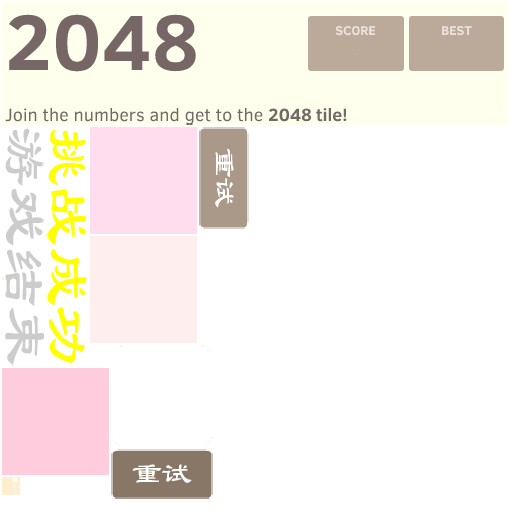
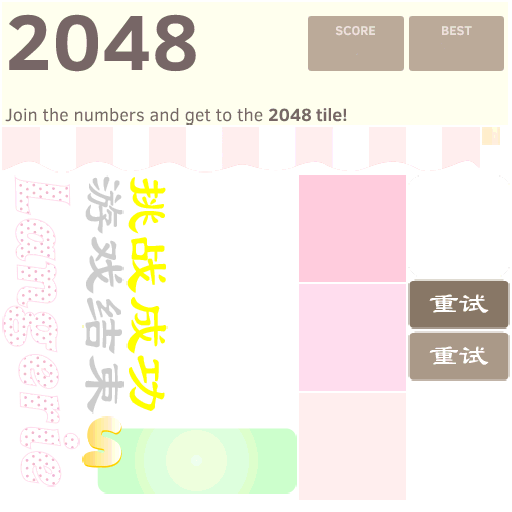
素材

diff --git a/langerieSweetGame/src/gamePlay/layer/GPBackgroundLayer.js b/langerieSweetGame/src/gamePlay/layer/GPBackgroundLayer.js
@@ -36,17 +36,33 @@ var GPBackgroundLayer = cc.LayerColor.extend({
             x:  GC.centerX,
             y:  GC.centerY
         });
-        this.addChild(bg);
         //GC.spriteTileRepeat(bg);
+        this.addChild(bg);
 
+        //top背景
+        var topbg=cc.Sprite.create("#top.png");
+        topbg.attr({
+            x:GC.centerX,
+            y:GC.h
+        });
+        topbg.setAnchorPoint(0.5,1);
+        this.addChild(topbg);
 
         //menu背景
-        menuBg = new cc.Sprite("#menu.png");
-        menuBg.attr({
+        //menuBg = new cc.Sprite("#menu.png");
+        //menuBg.attr({
+        //    x: GC.centerX,
+        //    y: GC.h-60.5
+        //});
+        //this.addChild(menuBg);
+
+        //scorebar
+        var scorebar = cc.Sprite.create("#scorebar.png");
+        scorebar.attr({
             x: GC.centerX,
-            y: GC.h-60.5
+            y: GC.h-topbg.getContentSize().h-scorebar.getContentSize().h/2-40
         });
-        this.addChild(menuBg);
+        this.addChild(scorebar);
 
         //游戏区背景
         gridBg = cc.Scale9Sprite.create("background.png");
